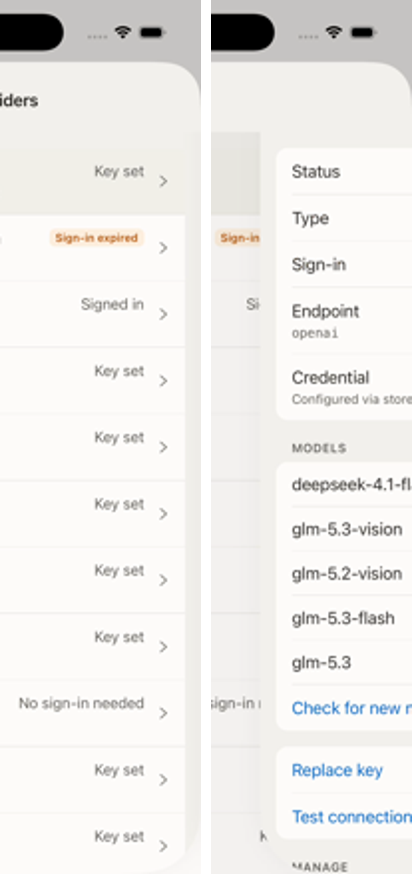
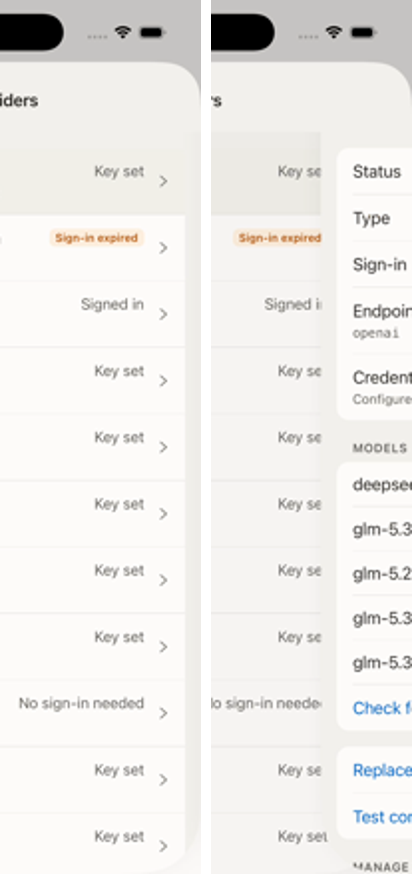
fix(native): the provider detail publishes in a layout effect, so no push waits for it
The layout publish lands before the commit paints, which closes both halves
of #3510's M4: a detail pushed in the commit that builds it paints with its
content, and the paste key field never renders a commit behind the page's
state. On the simulator, three recorded pushes each show the detail in
their first sliding frame without the deferred push, so openDetail
navigates directly again and pushPending, its effect and its test go.

The renderer can't pin this: act() flushes passive effects before the
layout-scheduled re-render, so both publishes look the same there. The
evidence is the simulator frames (before: a blank first frame; after: the
detail in the first frame of each of three pushes).

Claude-Session: https://claude.ai/code/session_01HtmFCkdWNWarafbQX9SYvA

diff --git a/mobile-native/src/hub/providersPageTestUtils.tsx b/mobile-native/src/hub/providersPageTestUtils.tsx
@@ -10,31 +10,11 @@ import { backGuard } from "./backGuardTestUtils";
 import type { HubRoutes } from "./hubSheetContext";
 import { ProviderDetailPage } from "./ProviderDetailPage";
 import { ProvidersPage } from "./ProvidersPage";
-import { ProvidersScreenSlotProvider, useProviderDetailSlot } from "./providersScreenSlot";
+import { ProvidersScreenSlotProvider } from "./providersScreenSlot";
 
 type DetailParams = HubRoutes["ProviderDetail"];
 
-const stack: {
-	close: (() => void) | null;
-	params: DetailParams | null;
-	firstSeen: string | null | undefined;
-} = { close: null, params: null, firstSeen: undefined };
-
-/** The provider the slot named when the latest pushed detail first rendered:
- * a detail pushed before its page has published it renders blank at first. */
-export function detailFirstSeen(): string | null | undefined {
-	return stack.firstSeen;
-}
-
-/** The pushed detail page, noting what the slot held at its first render. */
-function Pushed(props: ComponentProps<typeof ProviderDetailPage>) {
-	const slot = useProviderDetailSlot();
-	const [seen] = useState(() => slot?.name ?? null);
-	useEffect(() => {
-		stack.firstSeen = seen;
-	}, [seen]);
-	return <ProviderDetailPage {...props} />;
-}
+const stack: { close: (() => void) | null; params: DetailParams | null } = { close: null, params: null };
 
 /** The detail's route params, or null while no detail is pushed. */
 export function detailParams(): DetailParams | null {
@@ -106,8 +86,7 @@ export function ProvidersStack(props: ComponentProps<typeof ProvidersPage>) {
 		<ProvidersScreenSlotProvider>
 			<ProvidersPage {...props} route={{ ...props.route, params: applied }} navigation={navigation} />
 			{detail ? (
-				<Pushed
-					key={detail.name}
+				<ProviderDetailPage
 					navigation={detailNavigation}
 					route={{ key: "detail", name: "ProviderDetail", params: detail }}
 				/>

diff --git a/mobile-native/src/hub/providersScreenSlot.tsx b/mobile-native/src/hub/providersScreenSlot.tsx
@@ -9,7 +9,7 @@
 // Unlike that slot, this one is an external store, not React state: the page
 // publishes on every render, and only the pushed page subscribes, so a
 // publication never re-renders the page that made it.
-import { createContext, type ReactNode, useContext, useEffect, useRef, useState, useSyncExternalStore } from "react";
+import { createContext, type ReactNode, useContext, useEffect, useLayoutEffect, useRef, useState, useSyncExternalStore } from "react";
 
 /** The detail the Providers page shows for its selected provider. */
 export interface ProviderDetailSlot {
@@ -63,11 +63,17 @@ export function useProviderDetailSlot(): ProviderDetailSlot | null {
 }
 
 /** Publishes `slot` after every render of the calling page, and takes it back
- * when the page goes, unless a newer page has published since. */
+ * when the page goes, unless a newer page has published since. It publishes
+ * in a layout effect, before the commit paints: a detail pushed in the commit
+ * that builds it then paints with its content (a passive publish left its
+ * first sliding frame blank), and a controlled field in the detail, the
+ * pasted key, never renders a commit behind the page's state, which drops and
+ * reorders fast keystrokes. The renderer's act() flushes passive effects
+ * before this re-render, so only a device or simulator shows the difference. */
 export function usePublishProviderDetail(slot: ProviderDetailSlot): void {
 	const store = useContext(SlotContext);
 	const published = useRef<ProviderDetailSlot | null>(null);
-	useEffect(() => {
+	useLayoutEffect(() => {
 		published.current = slot;
 		store.set(slot);
 	});

diff --git a/mobile-native/src/hub/ProvidersPage.test.tsx b/mobile-native/src/hub/ProvidersPage.test.tsx
@@ -26,7 +26,7 @@ import { ProviderEditor } from "../ProviderEditor";
 import { SwitchRow, Tag } from "../sheet/Grouped";
 import { MODELS_NOT_CHECKED, UNCONFIRMED_CHANGE } from "../providers/providerCopy";
 import { ProviderDetailPage } from "./ProviderDetailPage";
-import { back, detailFirstSeen, detailParams, ProvidersStack as ProvidersPage } from "./providersPageTestUtils";
+import { back, detailParams, ProvidersStack as ProvidersPage } from "./providersPageTestUtils";
 import {
 	alertRequests,
 	dropped,
@@ -480,17 +480,6 @@ it("opens a provider's editor from inside its pushed detail", async () => {
 	const detail = tree.root.findByType(ProviderDetailPage);
 	expect(detail.findAllByType(ProviderEditor)).toHaveLength(1);
 	expect(tree.root.findAllByType(ProviderEditor)).toHaveLength(1);
-});
-
-// The page publishes a provider's detail before it pushes it, so the pushed
-// page's first render already has it: no blank frame as it slides in.
-it("pushes a provider's detail only once its detail is published", async () => {
-	providersHub([instance({ authModes: ["apiKey"], hasStoredFile: true })]);
-	const { tree } = mountPage();
-	await act(async () => {});
-	await openWork(tree);
-	expect(detailParams()).toMatchObject({ name: "work" });
-	expect(detailFirstSeen()).toBe("work");
 });
 
 it("goes back to the provider's detail when its edit is cancelled", async () => {

diff --git a/mobile-native/src/hub/ProvidersPage.tsx b/mobile-native/src/hub/ProvidersPage.tsx
@@ -348,12 +348,8 @@ function Providers({
 	// before the text goes (spec 6), whether by its Cancel, Back or the edge swipe.
 	const keyGuard = { busy: !!editingCredential && surface.busy, dirty: !!(editingCredential && key.trim()) };
 	const leaveKey = (leave: () => void) => guardLeave(keyGuard, leave);
-	// The provider whose detail waits to be pushed until this page has published
-	// it (below), so the pushed page's first render already has its detail.
-	const pushPending = useRef<string | null>(null);
 	function close() {
 		detailVisitId.current += 1;
-		pushPending.current = null;
 		setSelected(null);
 		setConfiguration(null);
 		setEditingCredential(null);
@@ -368,7 +364,7 @@ function Providers({
 		detailVisitId.current += 1;
 		setActionError(null);
 		setSelected(name);
-		pushPending.current = name;
+		onOpenDetail(name);
 	}
 	async function act(
 		action: () => Promise<unknown>,
@@ -732,14 +728,6 @@ function Providers({
 		guarded: keyGuard.busy || keyGuard.dirty,
 		leave: leaveKey,
 		onGone: close,
-	});
-	// Pushes a detail openDetail asked for once it is published: this effect
-	// runs after the publication's, in the same commit.
-	useEffect(() => {
-		const name = pushPending.current;
-		if (name === null || instance?.name !== name) return;
-		pushPending.current = null;
-		onOpenDetail(name);
 	});
 	return (
 		<>
